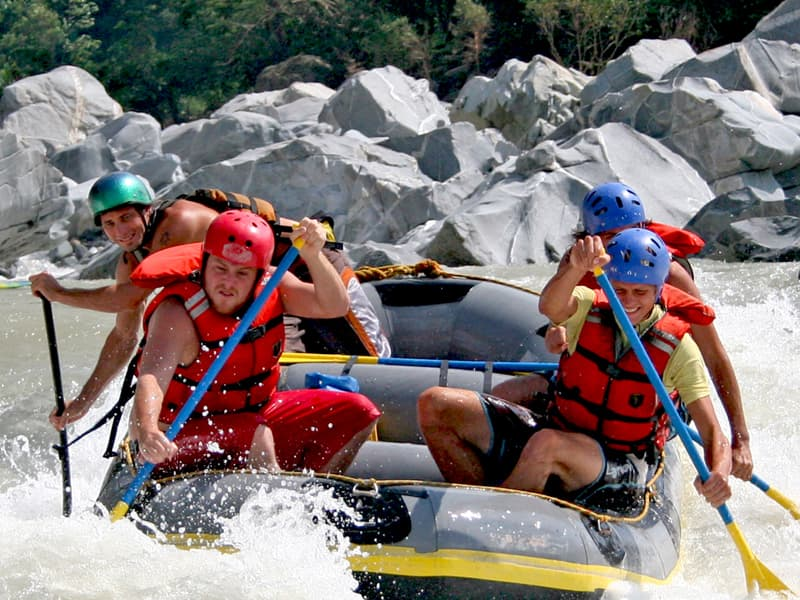
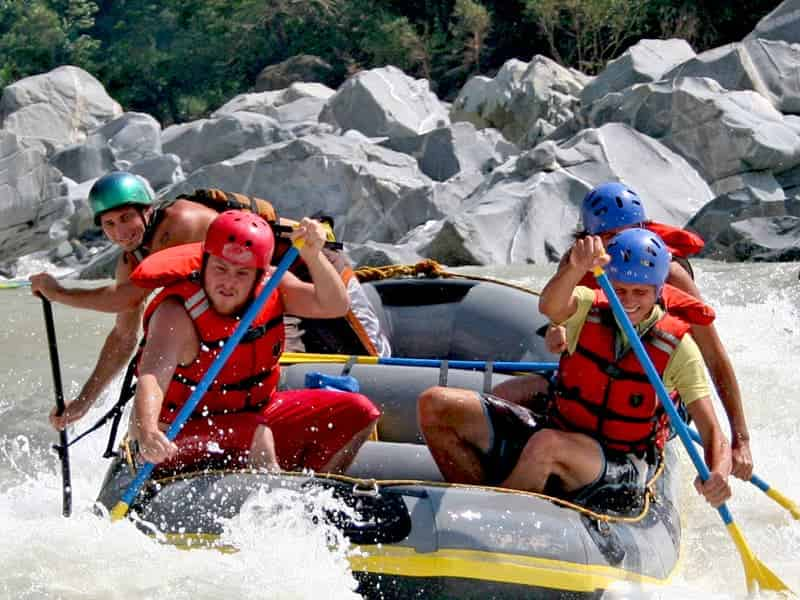
save

diff --git a/wwr/index.html b/wwr/index.html
@@ -4,7 +4,7 @@
 <head>
     <meta charset="utf-8">
     <meta name="viewport" content="width=device-width, initial-scale=1.0">
-    <meta name="description" content="Home page for Medina's Rafting Company">
+    <meta name="description" content="Home page for Medina's Rafting Company, this page will provide an overview of the company, its services, and a brief introduction to rafting adventures.">
     <meta name="author" content="Medina MBEDI">
     <link rel="preconnect" href="https://fonts.googleapis.com">
     <title> Home page | Medina's Rafting Company</title>
@@ -34,7 +34,7 @@
     <section class="images-container">
             <div class="image-grid">
                 <figure>
-                    <img src="images/a3.jpg" alt="Rafting Adventure 1" width="300" height="200">
+                    <img src="images/a3.webp" alt="Rafting Adventure 1" width="300" height="200">
                     <figcaption>Rafting Adventure 1</figcaption>
                 </figure>
                 <figure>
@@ -67,13 +67,13 @@
             <form> 
                 <fieldset>
                     <legend>User information</legend>
-                    <p> Fill this form to subscribe to our newspaper</p>
+                    <p> Fill this form to subscribe to our newsletter</p>
                     <label for="name">Name:</label>
                     <input type="text" id="name" name="name"><br>
                     <label for="email">Email:</label>
                     <input type="email" id="email" name="email"><br>
                  </fieldset>
-                  <button type="submit">submit now</button>
+                  <button type="submit">Sign up now</button>
             </form>
     </section>
     <aside>   

diff --git a/wwr/trips.html b/wwr/trips.html
@@ -3,13 +3,13 @@
 <head>
     <meta charset="UTF-8">
     <meta name="viewport" content="width=device-width, initial-scale=1.0">
-    <meta name="description" content="Trips page for Medina's Rafting Company">
+    <meta name="description" content="Trips page for Medina's Rafting Company, this page will provide information about the rafting trips offered, including images and a table of upcoming trips.">
     <meta name="author" content="Medina MBEDI">
     <link rel="preconnect" href="https://fonts.googleapis.com">
     <link rel="preconnect" href="https://fonts.gstatic.com" crossorigin>
     <link href="https://fonts.googleapis.com/css2?family=Lobster&family=Montserrat:ital,wght@0,100..900;1,100..900&display=swap" rel="stylesheet">
     <link rel="stylesheet" href="styles/rafting.css">
-    <title> Trips | Medina's Rafting Compan </title>
+    <title> Trips | Medina's Rafting Company </title>
 </head>
 <body>
     <header >
@@ -31,7 +31,7 @@
         <section class="images-container">
             <div class="image-grid">
                 <figure>
-                    <img src="images/a3.jpg" alt="Team Member 1" width="300" height="200">
+                    <img src="images/a3.webp" alt="Team Member 1" width="300" height="200">
                     <figcaption> Trip on Brazzaville river, June 2023</figcaption>
                 </figure>
                 <figure>
